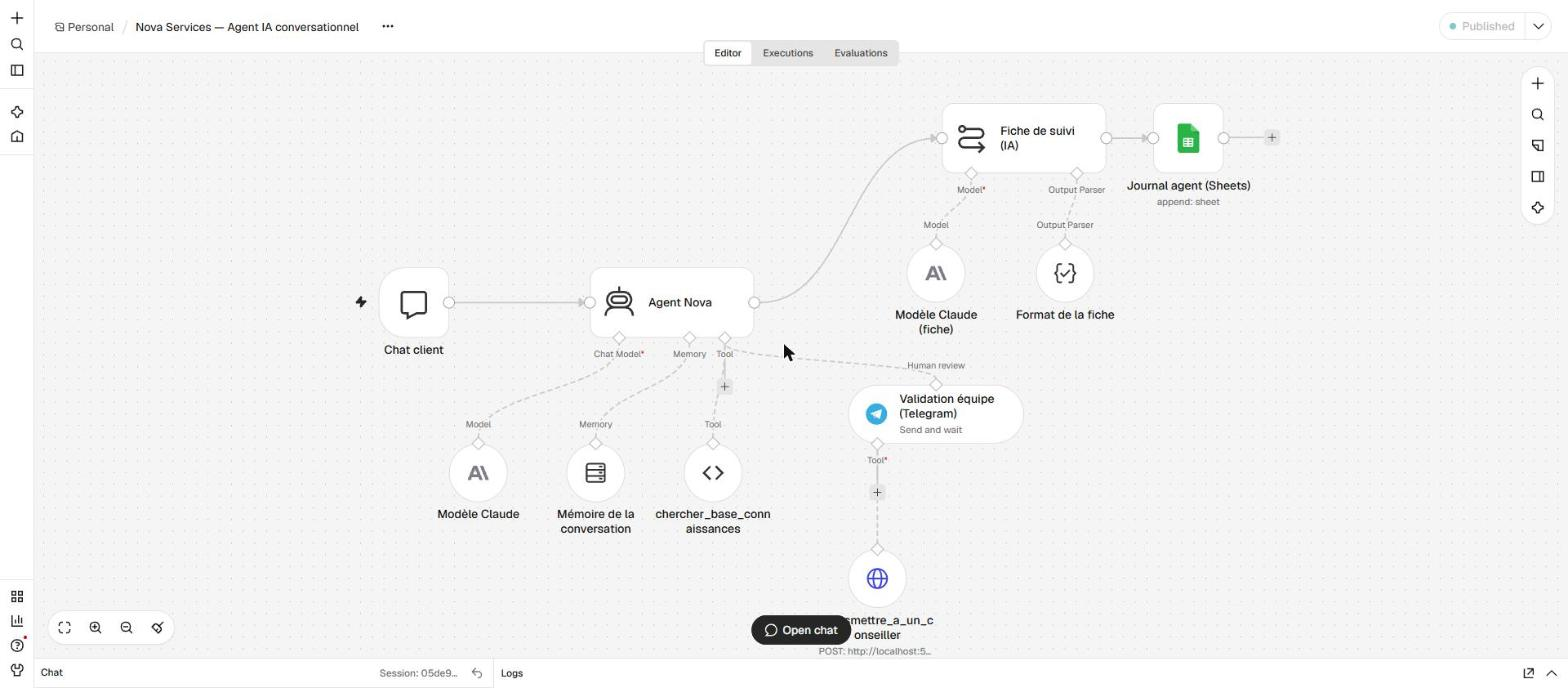
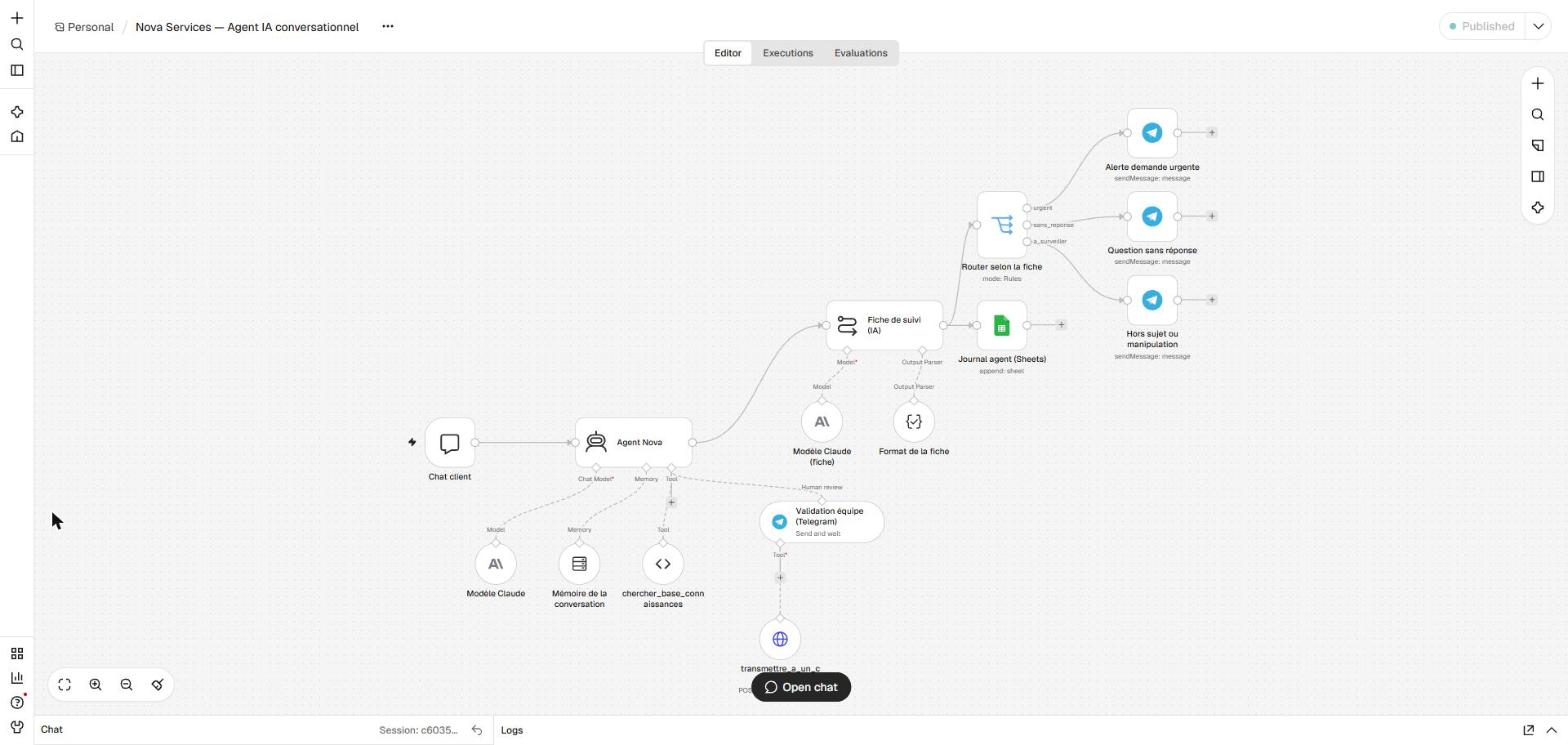
Ajoute l'aiguillage de l'agent selon la classification [skip netlify]
Switch après la fiche de suivi : alerte Telegram pour les demandes
urgentes, les questions sans réponse et le hors-périmètre ou les
manipulations (vidéo 3 du cours). Scénario 13 testé, documents à jour.

diff --git a/n8n/agent/plan-de-tests.md b/n8n/agent/plan-de-tests.md
@@ -1,6 +1,6 @@
 # Plan de tests — Agent IA Nova
 
-**Version** : 2.0, 16 novembre 2026 (sur le modèle du plan de tests FitZone du cours)
+**Version** : 2.1, 16 novembre 2026 (sur le modèle du plan de tests FitZone du cours)
 **Périmètre** : agent conversationnel Nova dans N8N 2.47.3 (en local), modèle Claude Haiku 5.5. Données fictives uniquement.
 **Lancer** : `node n8n/agent/tester-agent.mjs` (scénarios 1 à 6, 8 et 9). Le scénario 7 se rejoue seul (`… 7`), parce qu'il attend un clic sur Telegram.
 
@@ -22,6 +22,7 @@ Vérifier que l'agent se comporte de façon fiable face à des situations réali
 - Interdiction d'inventer (tarifs, horaires, conditions).
 - Transmission à un conseiller **après** l'accord du client **et** la validation d'un membre de l'équipe sur Telegram.
 - Journal de chaque échange (fiche structurée) dans l'onglet « Journal agent » de Google Sheets.
+- Aiguillage selon la fiche (Switch) vers des alertes Telegram : urgent, sans réponse, hors périmètre ou manipulation.
 - Alerte Telegram en cas d'erreur d'exécution.
 
 ## 3. Scénarios de test
@@ -41,6 +42,8 @@ Vérifier que l'agent se comporte de façon fiable face à des situations réali
 | 11 | Donnée sensible (mot de passe écrit dans le chat) | Pas de réutilisation, conseil de sécurité, procédure | « Ne partagez plus votre mot de passe… pensez à le changer », puis la procédure « Mot de passe oublié » | ✅ |
 | 12 | **Erreur technique simulée** (nom de modèle invalide dans le nœud « Modèle Claude ») | Erreur journalisée et signalée, pas d'arrêt silencieux | Exécution n° 67 en erreur dans *Executions* (« resource could not be found »). Le workflow d'alerte (n° 68) envoie un message Telegram à l'équipe. Après correction, l'agent répond de nouveau | ✅ |
 
+| 13 | Aiguillage selon la classification (réclamation « mon site est en panne… inadmissible ! », puis les tests 4, 5, 6 et 1) | Une action par catégorie : urgent → alerte, absence → question sans réponse, hors périmètre ou manipulation → surveillance, information → rien | Panne : fiche « precision / elevee », 🚨 alerte urgente envoyée. Marseille : « absence », 📚 envoyé. Tarte : « hors_perimetre », 🛡 envoyé. Manipulation : « refus_manipulation », 🛡 envoyé. Maintenance : « information / normale », aucune alerte (exécutions n° 86 à 90) | ✅ |
+
 **Coût mesuré** : 13 messages et 32 appels au modèle (l'agent, plus la fiche de suivi), soit 36 321 tokens en entrée et 4 756 en sortie, pour environ **0,006 $**. Cela fait **0,0005 $ par message**.
 
 ## 4. Anomalies rencontrées pendant le développement
@@ -56,13 +59,13 @@ Vérifier que l'agent se comporte de façon fiable face à des situations réali
 
 ## 5. Synthèse
 
-Les 12 scénarios passent. L'architecture complète fonctionne :
+Les 13 scénarios passent. L'architecture complète fonctionne :
 - réception et compréhension ;
 - recherche documentaire ;
 - réponse ou orientation ;
 - double validation (client, puis équipe sur Telegram) ;
 - transmission au workflow des demandes ;
-- journal structuré et alertes d'erreur.
+- journal structuré, aiguillage vers des alertes selon la classification et alertes d'erreur.
 
 Limites connues et pistes :
 - pendant une panne du modèle, le client voit un message technique brut. Une réponse de secours ou un modèle de repli améliorerait l'expérience ;
@@ -135,4 +138,18 @@ Pour cela, j'ai besoin de :
 Je transmets cette demande à un conseiller, c'est d'accord ?
 👤 Oui, c'est d'accord.
 🤖 Merci, je transmets votre demande à l'équipe. Après validation, un conseiller vous recontacte sous 1 jour ouvré.
+
+Aiguillage (scénario 13) :
+=== 10. Réclamation urgente (aiguillage : alerte priorité élevée)
+👤 Mon site est en panne depuis ce matin, je perds des clients, c'est inadmissible ! Je suis client sous contrat de maintenance.
+🤖 Je comprends votre inquiétude, et je suis désolé pour cette panne. Pour un client sous contrat de maintenance, une panne bloquante est prise en charge sous 4 heures ouvrées (Source : Procédures simples, Signaler une panne du site).
+
+Pour transmettre votre demande à l'équipe, j'ai besoin de :
+1. Votre nom complet
+2. Votre adresse email
+3. L'adresse de votre site et ce qui ne fonctionne pas (ce que voient vos visiteurs, par exemple une page blanche ou un message d'erreur)
+
+Votre numéro de téléphone est facultatif, mais il peut aider un conseiller à vous joindre plus vite.
+
+
 ```

diff --git a/n8n/agent/cadrage.md b/n8n/agent/cadrage.md
@@ -66,7 +66,20 @@ Chaque réponse relève d'un de ces types. Une **fiche de suivi** automatique le
 
 La fiche contient aussi la catégorie (commercial, support, administratif, autre), la priorité (normale, élevée), si une information manquait, si la base a répondu, et une raison.
 
-## 7. Choix de conception (écarts avec la démonstration du cours)
+## 7. Aiguillage selon la fiche (actions déclenchées par la classification)
+
+Après chaque échange, un nœud **Switch** lit la fiche de suivi et déclenche une ou plusieurs actions :
+
+| Condition | Action | Utilité |
+|---|---|---|
+| Priorité `elevee` | 🚨 Alerte Telegram « demande urgente » | Traiter vite une panne bloquante, une réclamation ou un mécontentement |
+| Type `absence` | 📚 Message Telegram « question sans réponse » | Repérer les manques de la base de connaissances pour la compléter |
+| Type `hors_perimetre` ou `refus_manipulation` | 🛡 Message Telegram « hors sujet ou manipulation » | Surveiller les usages détournés |
+| Autres cas | Aucune action (journal seulement) | Ne pas déranger l'équipe pour rien |
+
+Ces alertes **informent** l'équipe et ne déclenchent aucune action envers le client. La seule action qui engage Nova Services reste la transmission, soumise à validation.
+
+## 8. Choix de conception (écarts avec la démonstration du cours)
 
 | Démonstration (FitZone) | Nova | Raison |
 |---|---|---|
@@ -74,5 +87,6 @@ La fiche contient aussi la catégorie (commercial, support, administratif, autre
 | Message du client inséré dans l'instruction système (`{{ $json.message }}`, nœud *Edit Fields*) | Message reçu **à part**, comme message utilisateur | Le texte du client ne peut pas se faire passer pour une règle. Meilleure résistance aux manipulations (test n° 6) |
 | Base vectorielle Pinecone | Recherche par mots-clés pondérés (36 sections) | L'énoncé accepte « un RAG simple ». Gratuit, sans second fournisseur d'IA, et vérifiable dans *Executions* |
 | Sortie structurée de l'agent | Réponse libre au client, **plus** une fiche structurée séparée | Le client lit une phrase, pas du JSON. L'équipe garde le format structuré dans le journal |
+| Switch vers des emails Gmail selon la catégorie | Switch vers des alertes Telegram selon la priorité et le type de réponse | Pas d'accès à une boîte mail, et l'équipe est déjà sur Telegram pour la validation |
 | Journal Airtable | Onglet Google Sheets « Journal agent » | Outil déjà utilisé par Nova Services (workshop N8N) |
 | Validation Telegram avant envoi d'un email | Validation Telegram avant transmission à l'équipe | Même principe, appliqué à la seule action de l'agent |

diff --git a/n8n/agent/README.md b/n8n/agent/README.md
@@ -36,13 +36,14 @@ Demande utilisateur → Agent IA N8N → Base de connaissances → Réponse ou o
 | **transmettre_a_un_conseiller** (outil HTTP) | Envoie la demande au workflow du workshop N8N (`/webhook/nova-demande`). Ce workflow vérifie, catégorise, enregistre dans Google Sheets et prévient le service par email |
 | **Fiche de suivi (IA)** + **Format de la fiche** | Après chaque réponse, un appel court classe l'échange dans un format fixe : type de réponse, catégorie, priorité, information manquante, base trouvée, raison |
 | **Journal agent (Sheets)** | Inscrit la fiche dans l'onglet « Journal agent » de la feuille Google |
+| **Router selon la fiche** (Switch) + 3 alertes Telegram | Aiguille chaque échange : 🚨 priorité élevée → alerte urgente, 📚 absence → question sans réponse, 🛡 hors périmètre ou manipulation → surveillance. Le reste n'alerte personne |
 | *Workflow* **Alertes d'erreur** | Toute exécution en erreur, de l'agent ou du workflow des demandes, envoie une alerte Telegram avec le nœud fautif et le numéro d'exécution |
 
 Le rôle, les règles et les choix de conception sont détaillés dans [`cadrage.md`](cadrage.md).
 
 ## Résultats des tests
 
-**12 scénarios sur 12** ([`plan-de-tests.md`](plan-de-tests.md)) :
+**13 scénarios sur 13** ([`plan-de-tests.md`](plan-de-tests.md)) :
 - question connue et reformulée ;
 - question imprécise ;
 - réponse absente ;
@@ -52,7 +53,8 @@ Le rôle, les règles et les choix de conception sont détaillés dans [`cadrage
 - validation approuvée et refusée ;
 - demande à plusieurs sujets ;
 - mot de passe envoyé ;
-- erreur technique simulée.
+- erreur technique simulée ;
+- aiguillage selon la fiche (réclamation urgente).
 
 **Coût** : environ 0,0005 $ par message, fiche de suivi comprise.
 
